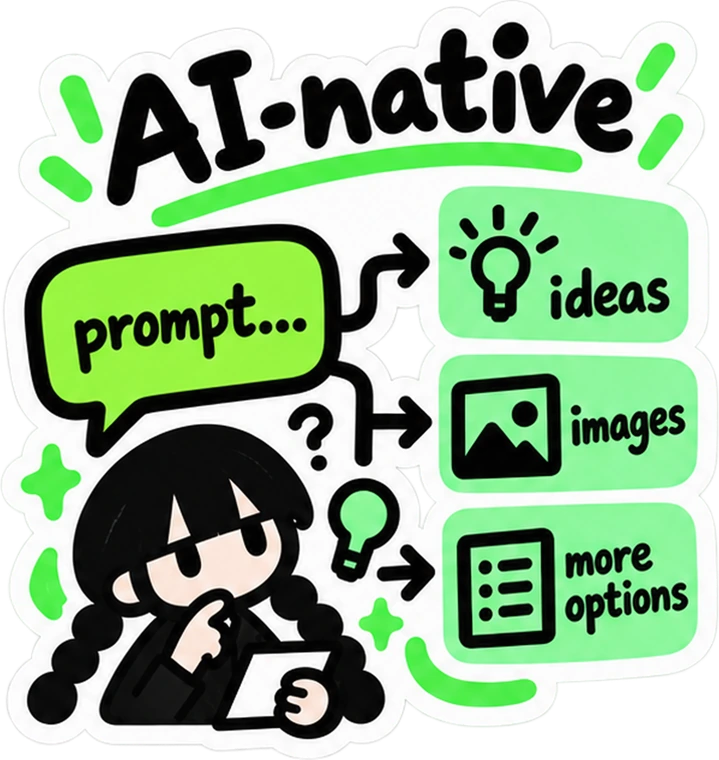
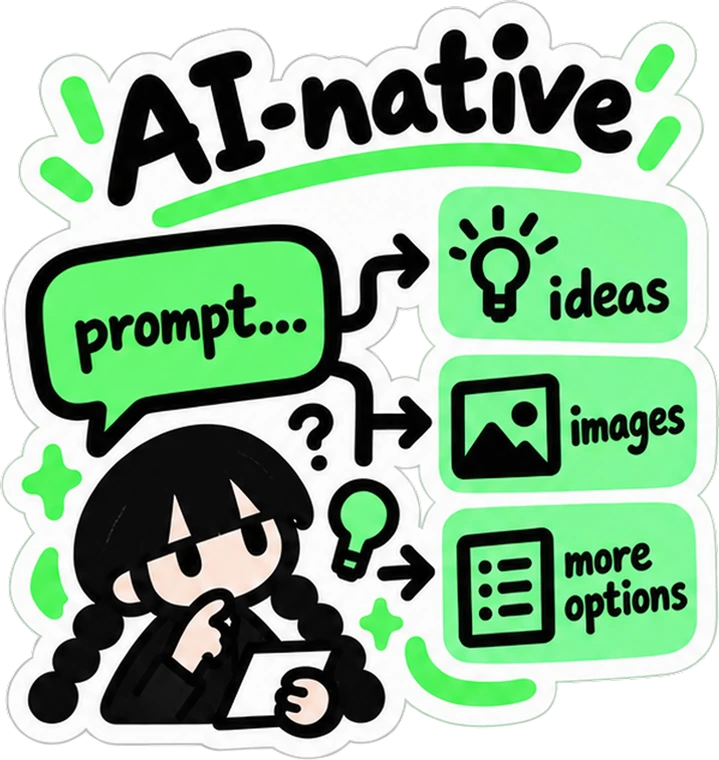
Take the AI-native sticker from the second sheet
Cut out of assets/hero2.png the same way — connected component on the alpha,
trimmed to its own box, 760px long edge — and it lands at exactly the same
719x760 as the one it replaces, so the markup needs no change.

Its green is a different green, not a different shade of the same one: the
saturated pixels sit at 120-130 degrees where the old sticker's sat at
90-110, and there are nearly twice as many of them. So the bar moved with
it, from #D3FAAF to #B3F9C2.

The bar is a stronger mix than the 42% the other three use. At 42% this
accent is less saturated to begin with and the chip came out at C* 28
against their 34-45, which read washed beside the yellow and the pink;
57% puts it at 38. Description text on it measures 5.3:1.

diff --git a/index.html b/index.html
@@ -809,7 +809,7 @@
     </div>
 
     <div class="fan" id="fan" style="--fan-lift: 5rem">
-      <button class="fan-card" type="button" style="--dx:-9.9rem; --dy:0px;  --rot:-8deg; --z:1; --tile:#D3FAAF">
+      <button class="fan-card" type="button" style="--dx:-9.9rem; --dy:0px;  --rot:-8deg; --z:1; --tile:#B3F9C2">
         <div class="shot">
           <div class="art"><img src="assets/sticker-ai-native.webp" width="719" height="760" alt="" /></div>
           <div class="copy">
